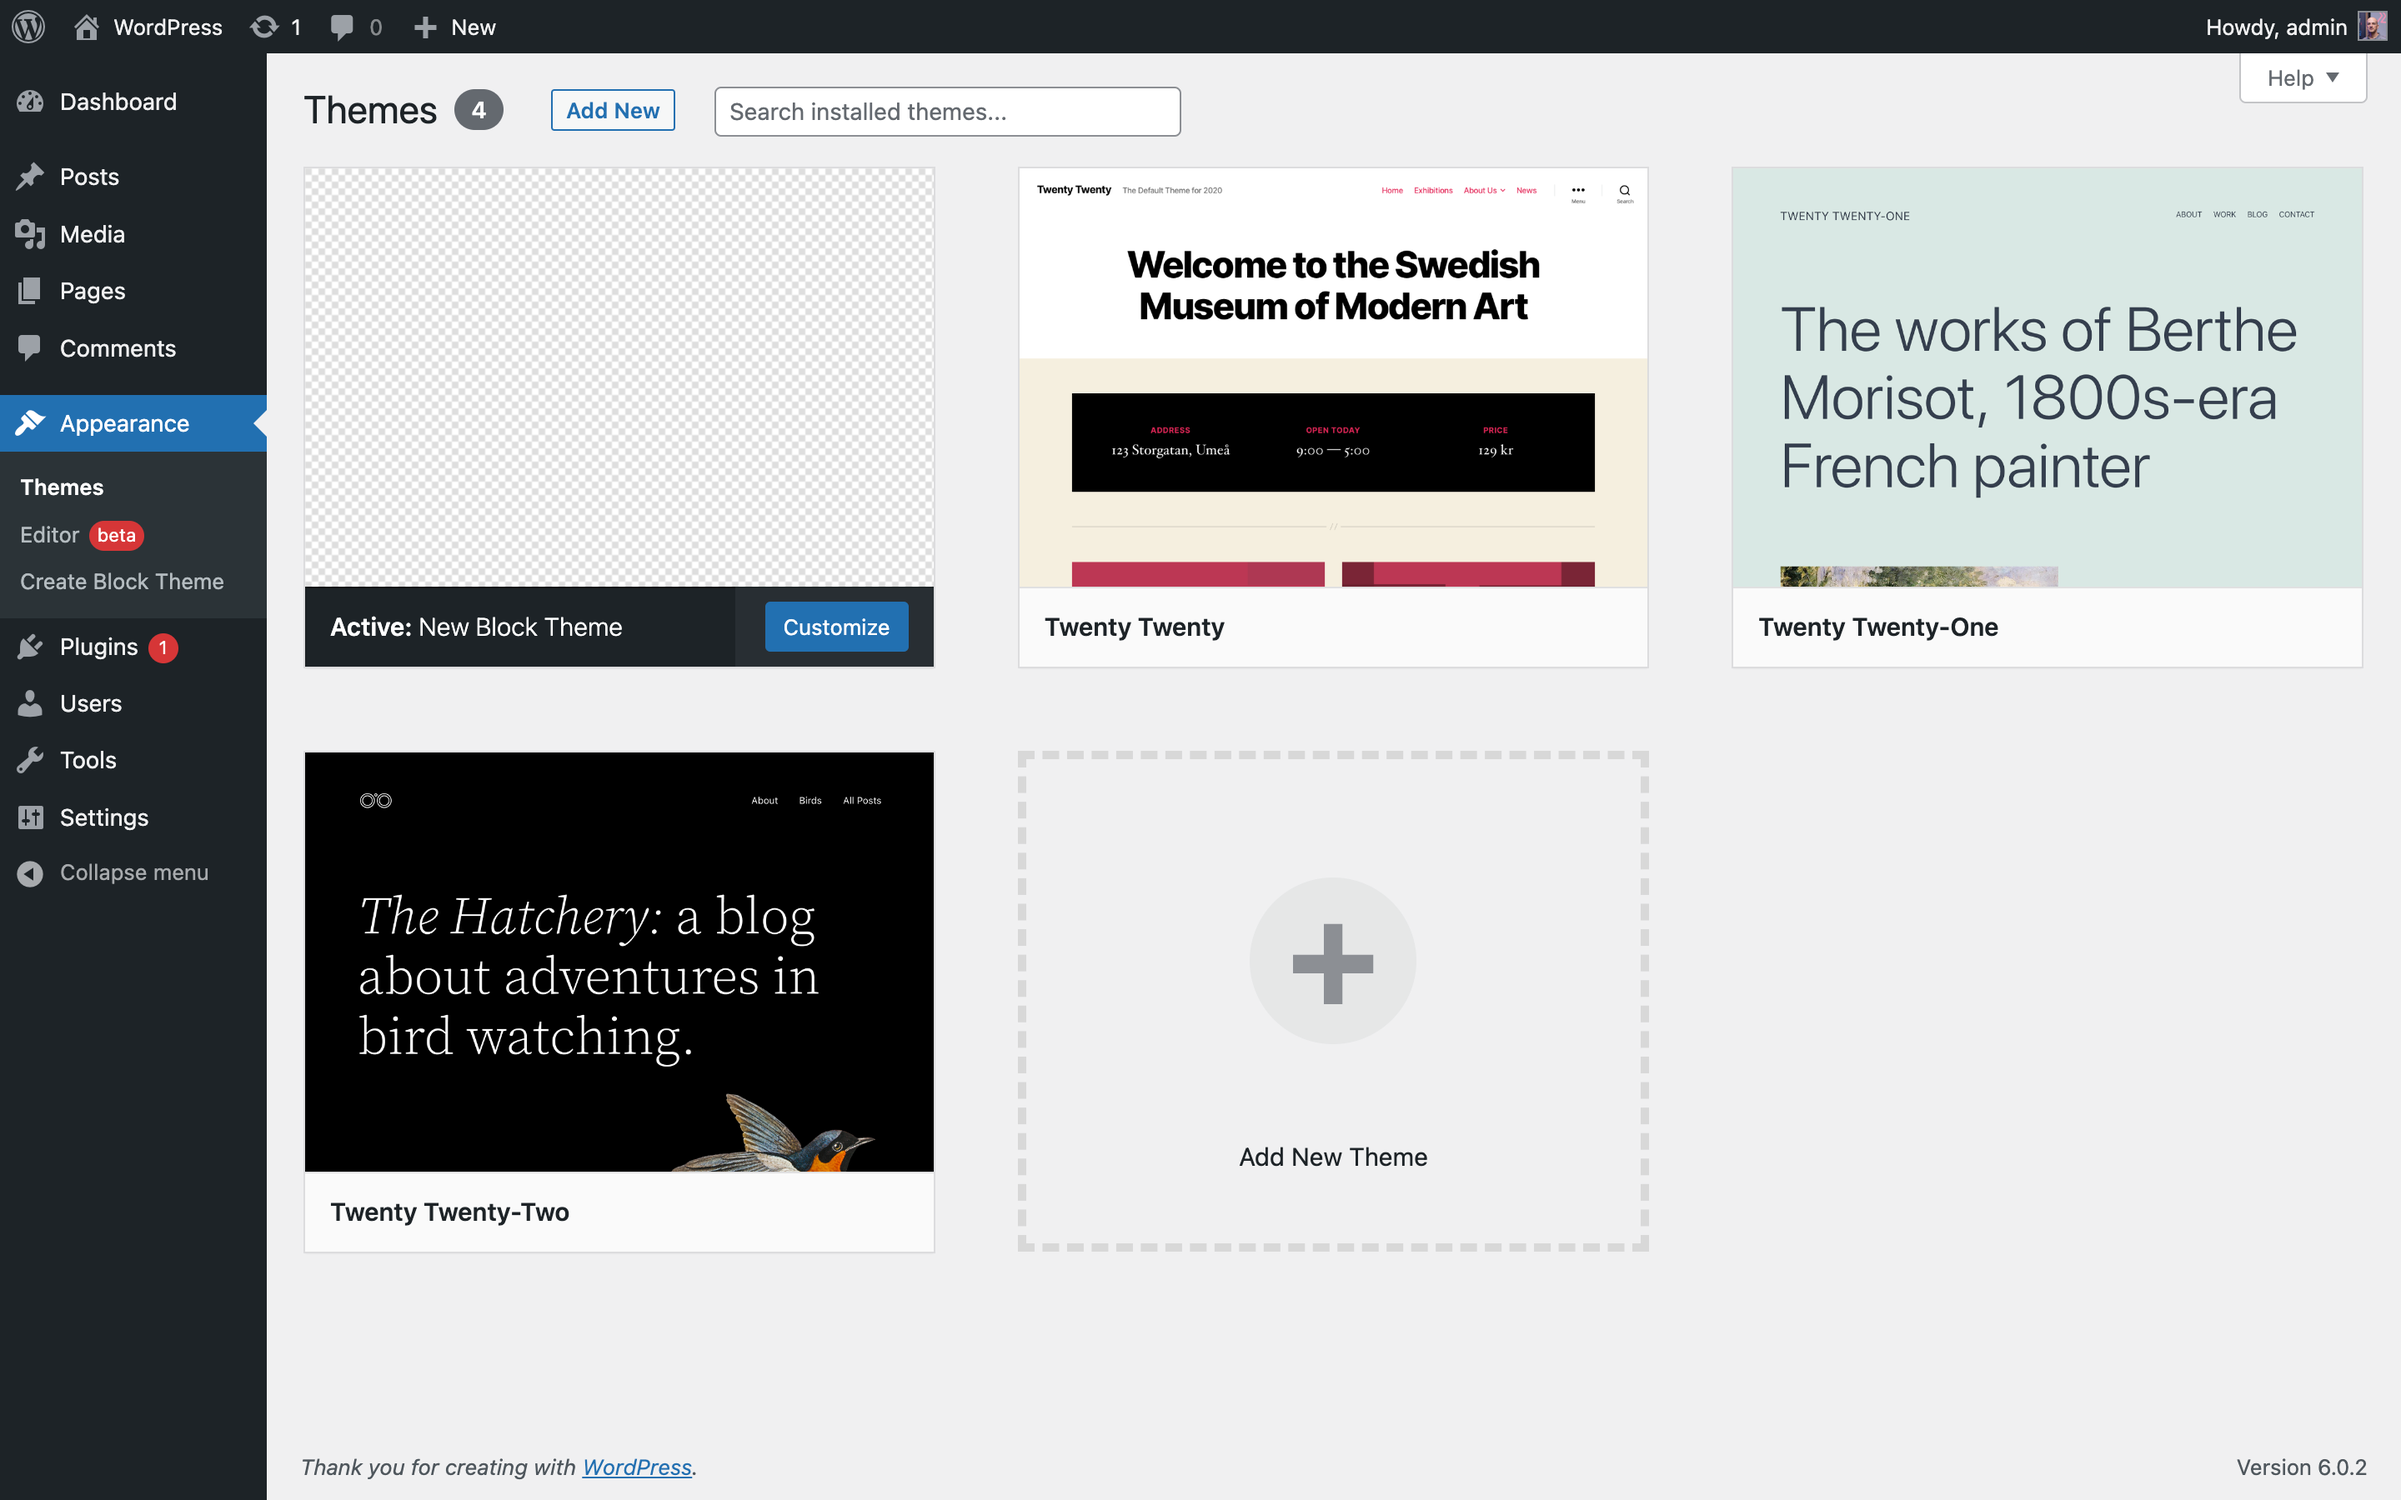
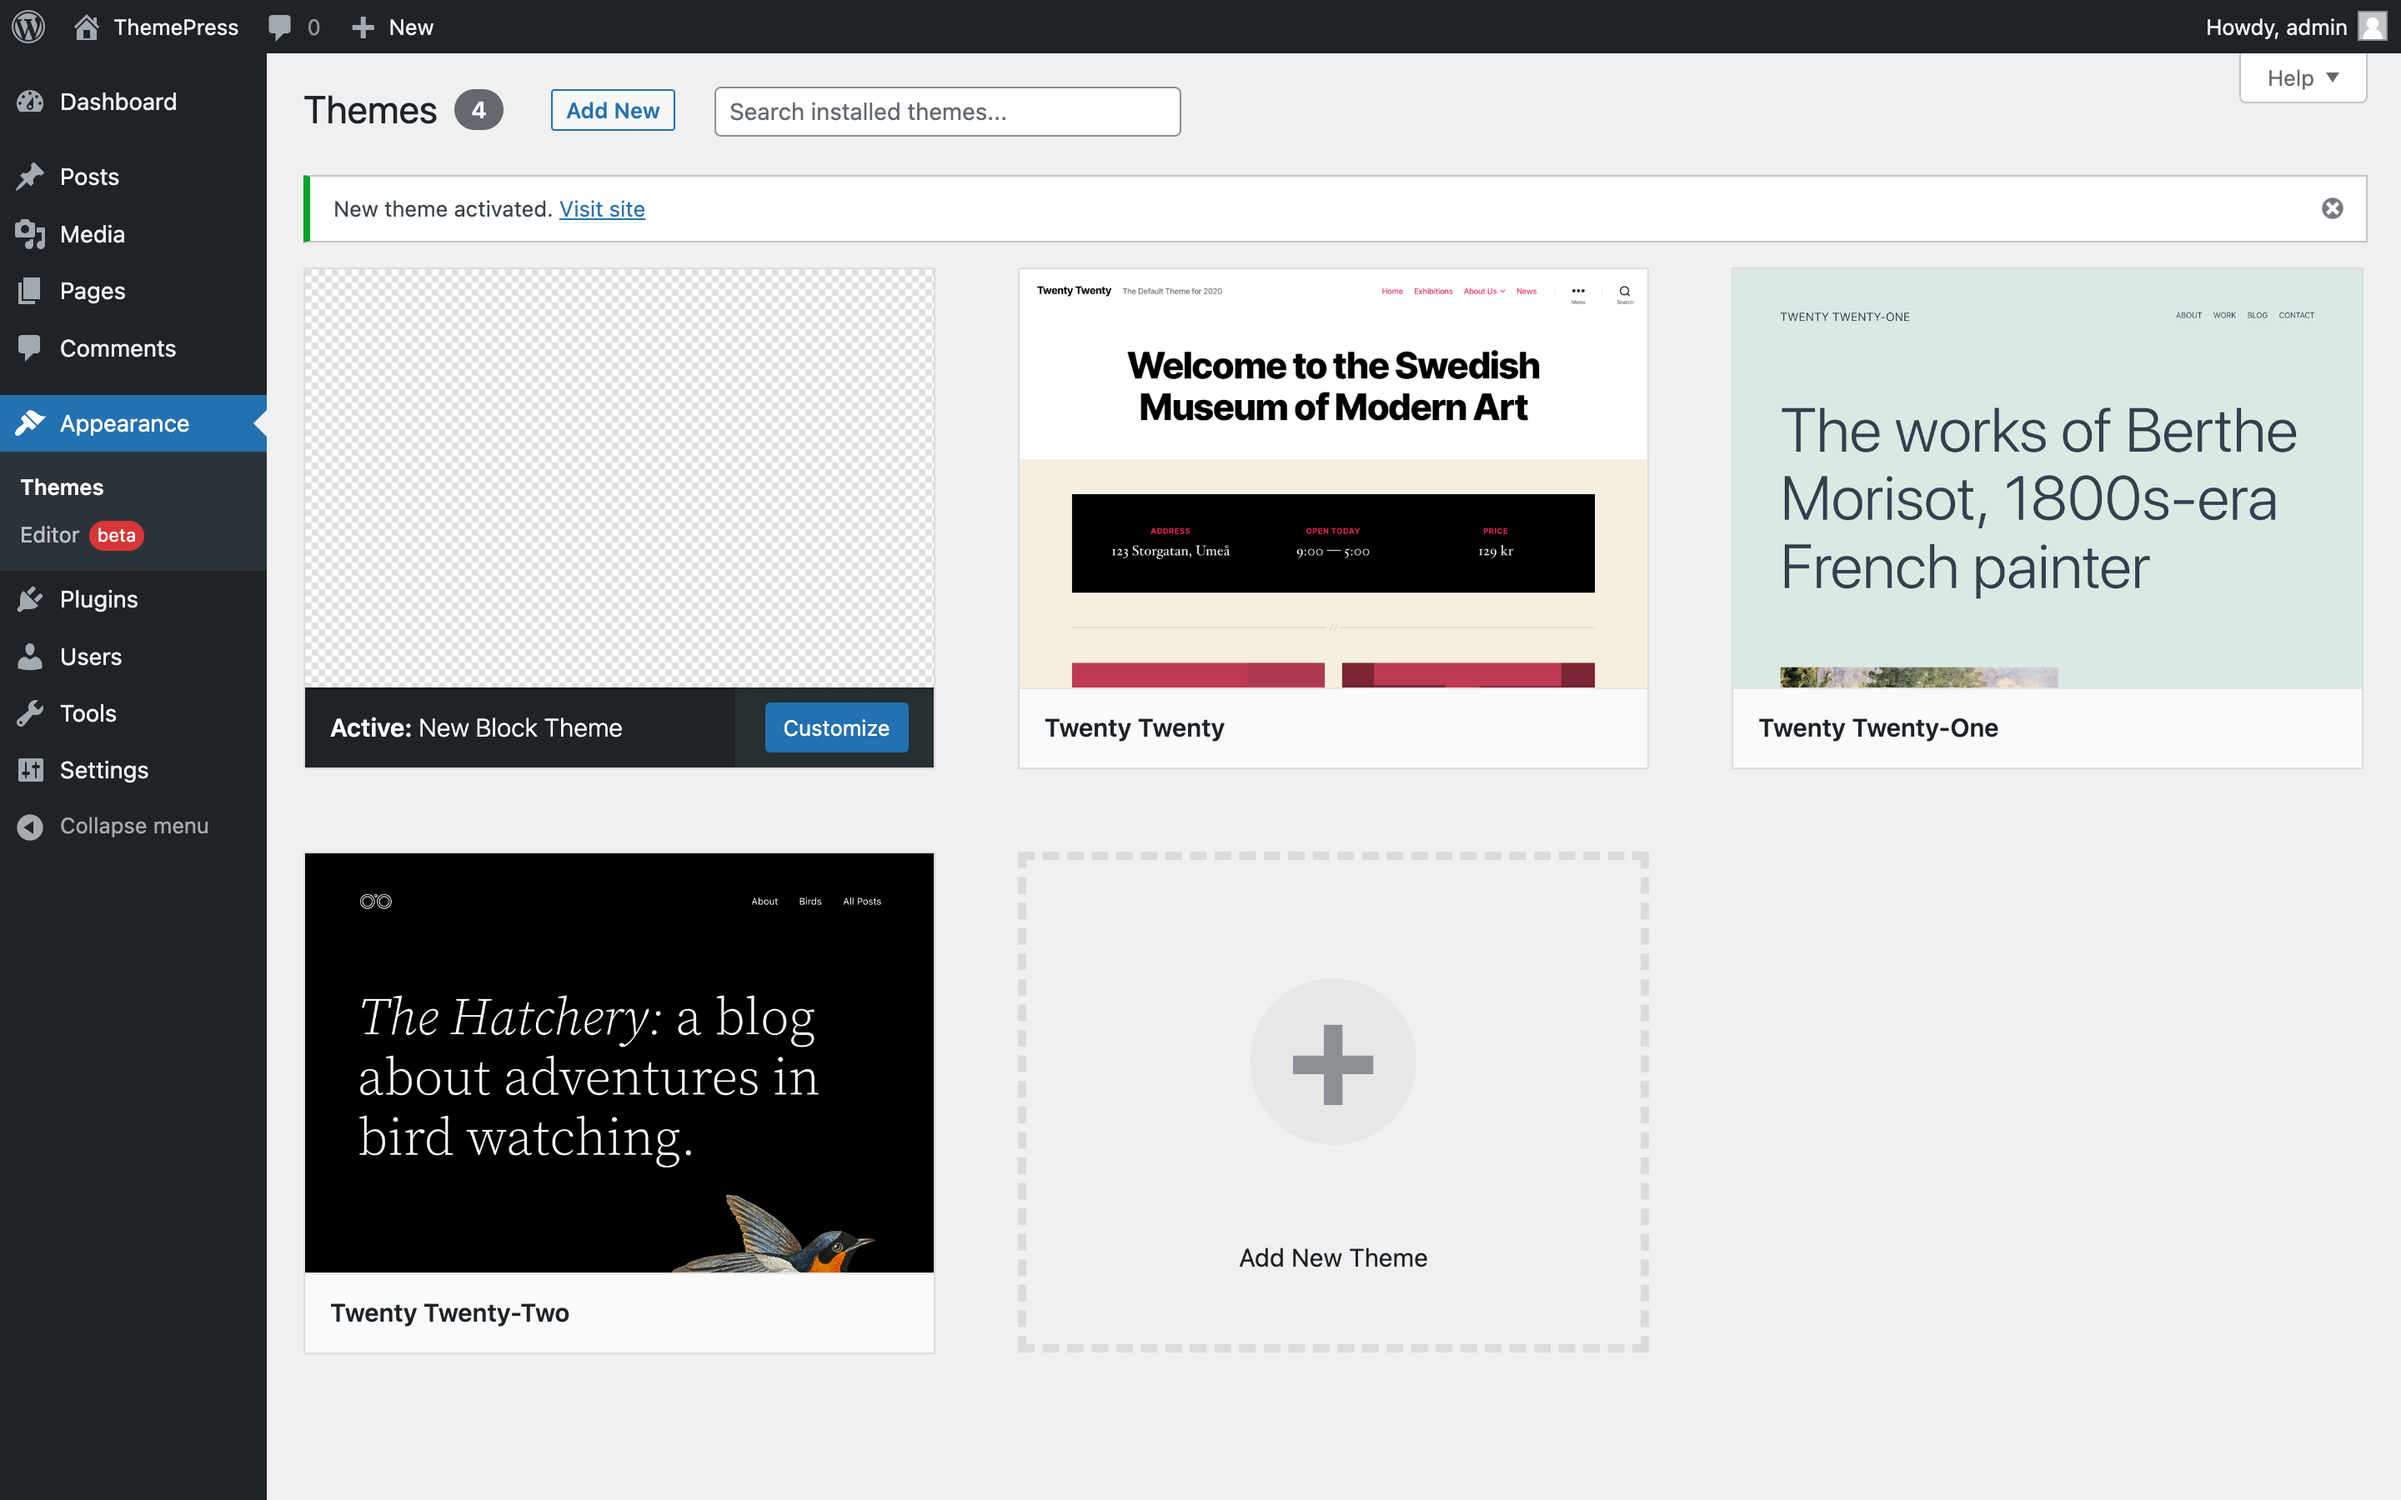
Polish lesson 1

diff --git a/module-01/01-Review-Block-Theme-Basics.md b/module-01/01-Review-Block-Theme-Basics.md
@@ -4,25 +4,21 @@
 
 Let's start by reviewing the requirements for a block theme. This is the bare minimum you need to create a working block theme.
 
-<div class="callout">
-    If this is the first time you are learning about block themes you might want to first check out the [Create a Block Theme (Low-Code) course](https://learn.wordpress.org/create-a-block-theme/).
-</div>
+> If this is the first time you are learning about block themes you might want to first check out the [Create a Block Theme (Low-Code) course](https://learn.wordpress.org/create-a-block-theme/).
 
 ## Requirements
 
 All themes, including block themes, reside in a directory in the `wp-content/themes` directory of your WordPress installation. If you take a look at the `wp-content/themes` directory of your WordPress installation you will see a number of directories, each containing a theme. The directory name of each theme is also known as the theme slug which is used to identify the theme in the WordPress admin.
 
-<div class="callout callout-tutorial">
-    To begin, create a new directory in your `themes` directory, and give the directory a unique name for your new theme.
-</div>
+> To begin, create a new directory in your `themes` directory, and give the directory a unique name for your new theme.
 
-[Image of themes directory with 'new-block-theme' directory]
+![Image of themes directory with 'new-block-theme' directory](images/module-01/new-block-theme.png)
 
 Once you've created your theme folder, your theme must have at minimum a `style.css` file and an `index.php` file. 
 
 ### style.css
 
-In a block theme, the style.css is primarily used to register the [header comment](https://developer.wordpress.org/themes/basics/main-stylesheet-style-css/#basic-structure) for your theme, which is used to display information about the theme in the Appearance -> Themes dashboard panel. 
+In a block theme, the `style.css` is primarily used to register the [header comment](https://developer.wordpress.org/themes/basics/main-stylesheet-style-css/#basic-structure) for your theme, which is used to display information about the theme in the Appearance -> Themes dashboard panel. 
 
 ![Theme Information](/images/module-01/base-block-theme-01.png)
 
@@ -50,9 +46,7 @@ Use it to make something cool, have fun, and share what you've learned with othe
 
 The minimum required fields for the header comment are `Theme Name`, but it's useful to add data for `Theme URI`, `Author`, and `Author UR`. 
 
-<div class="callout callout-tutorial">
-    Go ahead and create a new style.css file to your theme, and add the following fields as the header comment, replacing the field values with your own information:
-</div>
+> Go ahead and create a new style.css file to your theme, and add the following fields as the header comment, replacing the field values with your own information:
 
 ```css
 /*
@@ -66,11 +60,9 @@ Text Domain: new-block-theme
 
 ### index.php
 
-The index.php file is the theme template file that WordPress will use by default, if it can't find a matching template file for the content being rendered. For the purposes of block themes, this file can be left empty, and just include the PHP opening tag. Some developers like to add a comment to the file to indicate that it is intentionally left blank.
+The `index.php` file is the theme template file that WordPress will use by default, if it can't find a matching template file for the content being rendered. For the purposes of block themes, this file can be left empty, and just include the PHP opening tag. Some developers like to add a comment to the file to indicate that it is intentionally left blank.
 
-<div class="callout callout-tutorial">
-    Create your theme's index.php file, and add the following code:
-</div>
+> Create your theme's index.php file, and add the following code:
 
 ```php
 <?php
@@ -81,18 +73,14 @@ The index.php file is the theme template file that WordPress will use by default
 
 Block themes require one additional file, and `index.html` template. This file needs to be created inside a new directory in the theme directory called `templates`. This file can be empty, but it is required for the theme to be recognized as a block theme, and enable the Editor option in the Appearance menu.
 
-<div class="callout callout-tutorial">
-    1. Create your theme's `templates` directory.
-    2. Create your theme's `index.html` file inside this directory, and leave it blank for now.
-</div>
+> 1. Create your theme's `templates` directory.
+> 2. Create your theme's `index.html` file inside this directory, and leave it blank for now.
 
 ### theme.json
 
 Finally, a block theme needs a theme.json file. This file handles the global settings and styles for a block theme. While it's not required to add any settings or styles to the theme.json file when starting a new block theme, it's useful to start by setting the theme.json "version", and creating empty fields for the "settings" and "styles".
 
-<div class="callout callout-tutorial">
-    Create your theme's theme.json file in the root of the theme directory, and add the following code:
-</div>
+> Create your theme's theme.json file in the root of the theme directory, and add the following code:
 
 ```json
 {
@@ -108,11 +96,9 @@ Once you've added these required files, you are ready to start developing your b
 
 ![Minimum Theme Requirements](/images/module-01/directory-structure.png)
 
-<div class="callout callout-tutorial">
-    For the rest of this course, you'll be working in your new theme, so go ahead and activate it now from the Appearance -> Themes dashboard page.
-</div>
+> For the rest of this course, you'll be working in your new theme, so go ahead and activate it now from the Appearance -> Themes dashboard page.
 
-[Image of new block theme active]
+![Image of new block theme active](/images/module-01/new-block-theme-active.png)
 
 ### Further Reading
 
